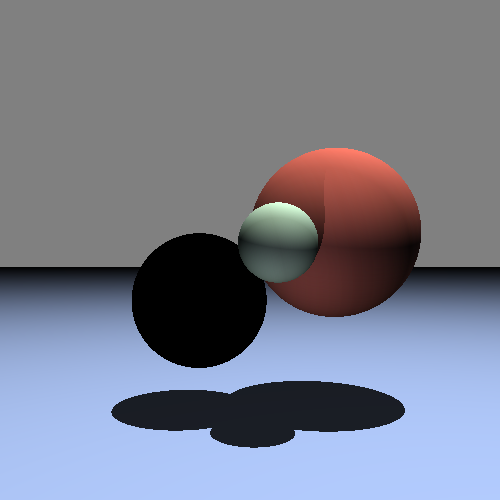
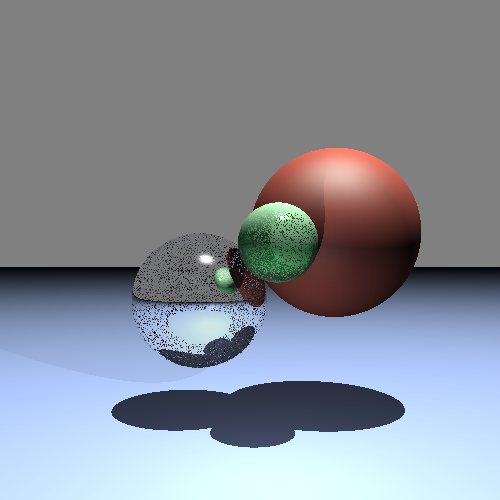
transparency ok with noise

Changed region(s): [[0.0, 0.75, 1.0, 1.0], [0.24, 0.3, 0.78, 0.75]]

diff --git a/src/RayTracing/ColorUtils.java b/src/RayTracing/ColorUtils.java
@@ -121,6 +121,7 @@ public class ColorUtils {
         Vector newRayDir =Vector.VectorSubtraction(ray.Direction, normalDot);
         newRayDir.Normalize();
         Ray reflecionRay = new Ray(hitPoint.HitPoint, newRayDir);
+
         List<Hit> reflectionHits = Hit.FindHits(reflecionRay, scene);
         Hit closestFromHit;
         Material newMat;
@@ -143,7 +144,8 @@ public class ColorUtils {
                     break;
             }
         }
-        Color color = CalcColor(scene, closestFromHit, newMat, closestFromHit.Normal, reflecionRay);
+        Vector norm = closestFromHit != null ? closestFromHit.Normal : null;
+        Color color = CalcColor(scene, closestFromHit, newMat, norm, reflecionRay);
         color = GetTransparency(closestFromHit, scene, newMat, reflecionRay, color);
         Color reflection = GetReflection(reflecionRay, closestFromHit, newMat, recursion-1, scene);
         color = plus(color, reflection);
@@ -156,6 +158,8 @@ public class ColorUtils {
         if(hit == null || mat.Transparency ==0.0){
             return color;
         }
+        int objects = scene.Planes.size() + scene.Spheres.size()*2 + scene.Boxes.size()*2;
+        int count = 0;
         Ray trans = new Ray(hit.HitPoint, ray.Direction);
         List<Hit> transHits = Hit.FindHits(trans, scene);
         Material matAfter = null;
@@ -180,7 +184,7 @@ public class ColorUtils {
         Vector normal = hitAfter!= null ? hitAfter.Normal : null;
         Color after = mult(CalcColor(scene, hitAfter, matAfter, normal , trans), transparency);
         color = plus(color, after);
-        while(transHits.size() >0) {
+        while(transHits.size() >0 && count < objects) {
             hitAfter = Hit.FindClosest(transHits, ray.Origin);
             Shapes s = hitAfter.Shape;
             switch (s) {
@@ -204,7 +208,9 @@ public class ColorUtils {
             color = plus(color, after);
             Ray rayAfter = new Ray(hitAfter.HitPoint, ray.Direction);
             transHits = Hit.FindHits(rayAfter, scene);
+            count++;
         }
+        //System.out.println("exited while in trans");
         return color;
     }
     public static Color avgColor(List<Color> colors) {

diff --git a/src/RayTracing/Hit.java b/src/RayTracing/Hit.java
@@ -67,7 +67,7 @@ public class Hit {
                         res.add(hit);
                         continue;
                     }
-                    else if(roots[1] > 0){
+                    else if(roots.length >1 && roots[1] > 0){
                         Vector hitPoint = ray.tPointOnRay(roots[1]);
                         Hit hit = new Hit(hitPoint, Shapes.Sphere, scene.Spheres.indexOf(sphere));
                         hit.Normal = Vector.VectorSubtraction(scene.Spheres.get(hit.Index).Center, hitPoint);

diff --git a/src/RayTracing/RayTracer.java b/src/RayTracing/RayTracer.java
@@ -201,6 +201,7 @@ public class RayTracer {
      */
     public void renderScene(String outputFileName,Scene imageScene)
     {
+        System.out.println("started rendering");
         long startTime = System.currentTimeMillis();
         double pixel = imageScene.Camera.ScreenWidth/imageWidth;
         // Create a byte array to hold the pixel data:
